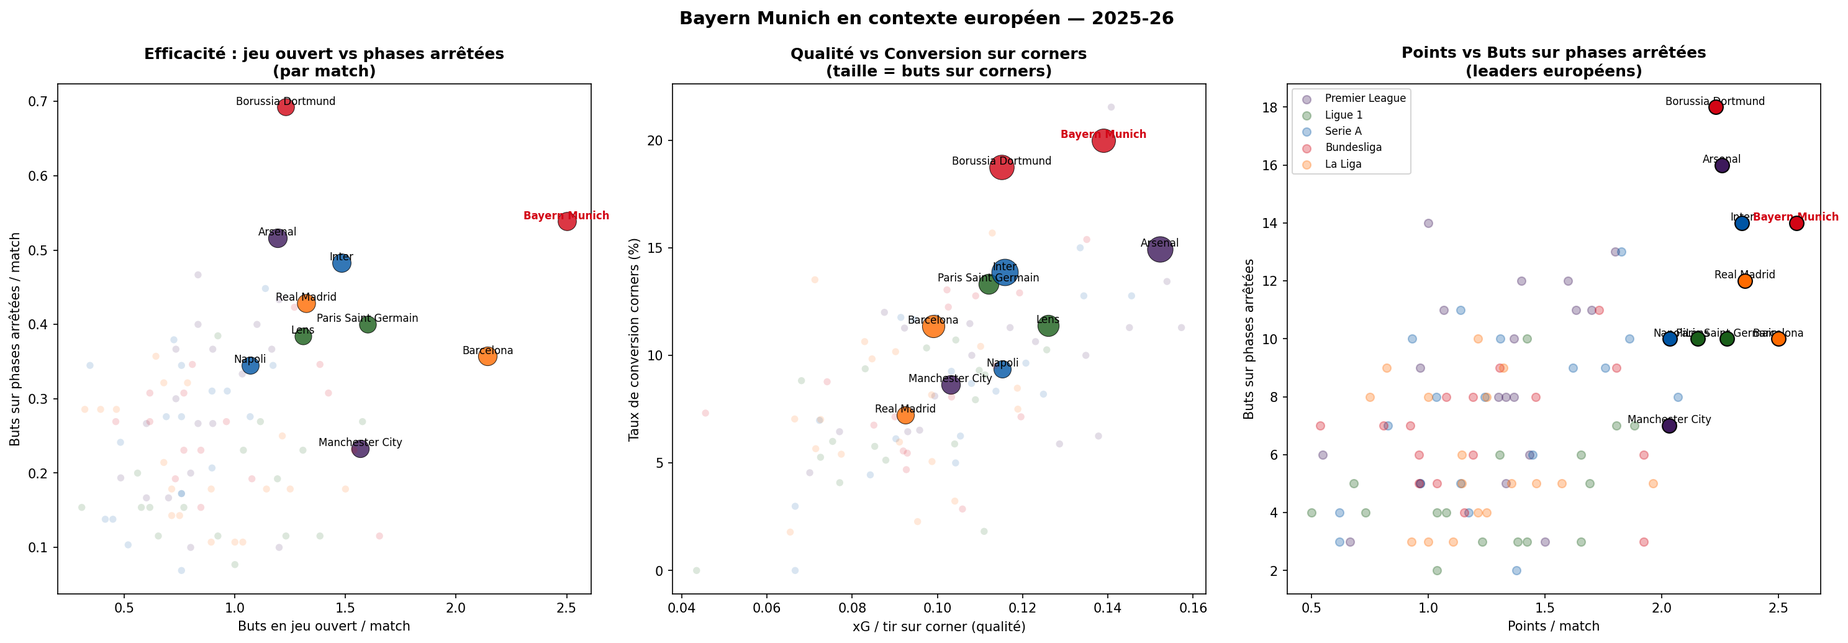
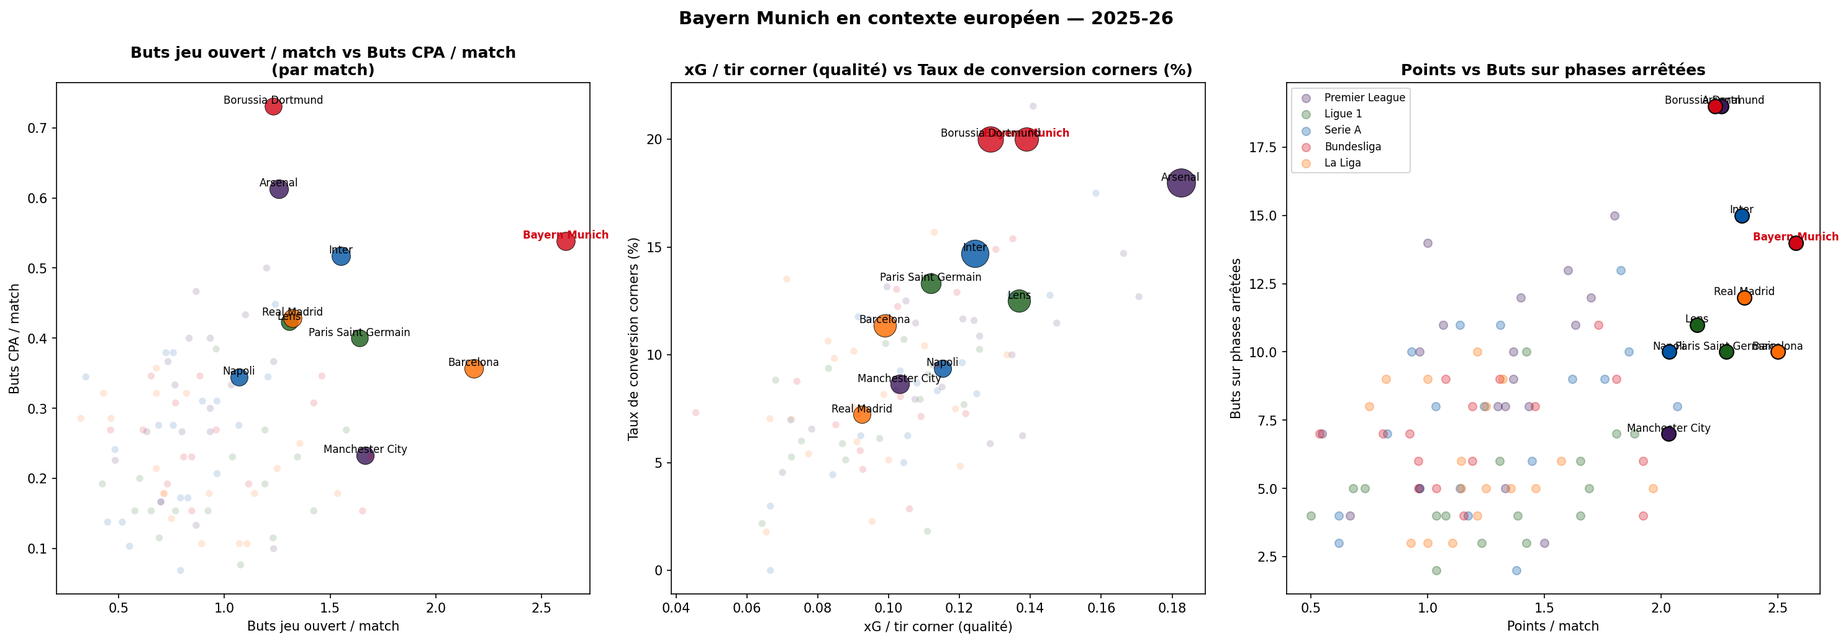
updates due to issues with Understat

diff --git a/_posts/2026-03-18-CornersSetPiecesFootballEN.md b/_posts/2026-03-18-CornersSetPiecesFootballEN.md
@@ -1,0 +1,238 @@
+---
+layout: post
+title:  "Corners, Free Kicks, and Set Pieces Across Europe's Top Leagues: What the Data Actually Says"
+date:   2026-03-18 12:00:00 +0100
+tags: [football, data analysis, corners, set pieces, Ligue 1, Premier League, Marseille, Arsenal, xG, Understat]
+hidden: true
+---
+
+Corners and set pieces are one of football's most debated topics. "Arsenal are unstoppable from corners," "Marseille are hopeless on free kicks," and so on. Opinions, gut feelings, conventional wisdom. But sometimes the data surprises: did you know that Tottenham, fighting relegation in the Premier League, are on the European podium for corner goals this season, just behind Arsenal and Inter?
+What if we actually checked?
+I analyzed **5 seasons of data** across Europe's top 5 leagues (Premier League, Ligue 1, Serie A, Bundesliga, La Liga). Every shot, every goal, every expected goal (xG) from corners, indirect free kicks, and direct free kicks. 484 team-seasons. Here's what I found in 10 key takeaways, and some results are surprising, underappreciated, or counter-intuitive.
+
+*Data: Understat via understatapi. 5 European leagues, 5 seasons (2021-2026), 484 team-seasons. Note: the 2025-26 season is ongoing (~26-30 matchdays depending on the league). Trends are clear but figures will evolve. I'll update at the end of the season.*
+
+## 1. Tottenham, kings of corners... and 16th in the Premier League
+
+This is the wildest story of the current season (~30 PL matchdays played). Tottenham are **3rd in Europe** for goals scored from corners: 14 goals, behind Arsenal (16) and Inter (15). A 21.5% conversion rate, the best in Europe.
+
+The problem? Spurs are currently **16th in the Premier League** with 30 points.
+
+<img src="/assets/en_tottenham_open_vs_corners.png" alt="Tottenham vs Arsenal: Open Play vs Corner Goals">
+
+The chart speaks for itself. Tottenham are isolated in the top left: lots of corner goals, very few from open play (25 goals, 14th in the league). Arsenal sit in the top right: 16 corner goals AND 39 from open play.
+
+**35.0% of Tottenham's goals come from set pieces.** That's the highest rate among major league clubs (excluding relegation-zone teams). When over a third of your goals depend on situations that account for ~15% of all shots, you're building on sand.
+
+For comparison, Bayern Munich, Europe's best attack, are at just 15.6% set piece dependency. Because when you score 65 open play goals, corners are a bonus, not a crutch.
+
+And then there's Arsenal, the outlier: **16 corner goals (1st in Europe)**, plus 39 from open play, 70 points (1st in the Premier League). Arsenal aren't just lethal offensively from set pieces, they dominate defensively too. In their Champions League match against Bayer Leverkusen, [Bayer 04's official account](https://x.com/bayer04_en/status/2031723079886401891) noted that Arsenal conceded zero corners. In a [controversial interview](https://talksport.com/football/4043546/john-obi-mikel-interview-arsenal-chelsea-mourinho-nigeria/), John Obi Mikel went as far as accusing Arsenal of cheating or suggesting their success depends solely on corners. Tottenham are the perfect counter-example: there's far more to football than corners.
+One could also argue Tottenham are in serious danger: without set pieces, their situation would be even worse than 16th place.
+
+---
+
+## 2. Elche 2022-23: 107 corner shots, the anatomy of desperation
+
+Beyond Tottenham in 2025-26, there are other extreme cases. Elche, 2022-23 season, La Liga. The team was relegated with 25 points, yet they fired **107 shots from corners**, a La Liga record that season.
+
+<img src="/assets/en_elche_corners_2022_23.png" alt="Corner shot distribution, La Liga 2022-23">
+
+The z-score is 2.26, a statistical outlier. But the right-hand chart is even more telling: **26.4% of all Elche's shots came from corners**. The La Liga average is 15.6%. No one else exceeds 19%.
+
+Why? Because Elche couldn't do anything else. Just 406 total shots (the lowest in La Liga), non-existent open play creation. Corners were their only route to goal. Lucas Boye, their target man, took 19 corner shots alone, shouldering the entire aerial workload.
+
+When you can't do anything else, you're left with corners. Tottenham 2025-26 is a less extreme version of the same syndrome.
+
+For the record, I haven't watched a single Elche match. But the statistics are quite clear (I also checked whether this was a data anomaly or a single misrecorded match inflating the count, but no). **I'm looking for Elche followers or supporters, because this is a truly remarkable phenomenon**, and despite some searching, I haven't found anything documenting this Elche exploit.
+
+---
+
+## 3. Marseille, from shame to (partial) renaissance on corners
+
+In November 2025, [@Rubenzf911](https://x.com/Rubenzf911/status/1985468834401116253) asked the question many Marseille supporters had on their minds:
+
+> *"OM's set pieces, is anyone ever going to sound the alarm?"*
+
+The alarm, the data had been ringing it for a while. Here's Marseille's evolution over 5 seasons:
+
+<img src="/assets/en_table_marseille_evolution.png" alt="Marseille evolution, 5 seasons">
+
+The table tells a three-act story:
+
+**Act 1, The glory (2022-23)**: 17 dead ball goals (1st in Ligue 1!), 11 from corners alone, 14.9 xG. OM were slightly overperforming (+2.1 goals vs xG). A 73-point season, their best in 5 years.
+
+**Act 2, The collapse (2023-24 and 2024-25)**: a crash to 6 then 7 dead ball goals. But note the 2023-24 xG: **13.0 xG for just 6 goals** (-7.0 underperformance). OM were creating good set piece chances, they just weren't converting them. It was bad luck as much as inefficiency. De Zerbi's first season was, from this perspective, quite a feat: despite dreadful set pieces, OM still finished 2nd.
+
+**Act 3, The recovery (2025-26)**: 7 dead ball goals, 4th in Ligue 1. Corners are improving (6 goals, 3rd in L1). One could argue the staff's work (particularly Pancho Abardonado, apparently the set piece coach) has been [unfairly criticized](https://x.com/TeamOM_Officiel/status/2029306295904272504).
+
+But a black hole remains.
+
+<img src="/assets/en_marseille_evolution_plot.png" alt="Marseille evolution: DB Goals vs xG">
+
+---
+
+## 4. Marseille's black hole: 0 goals from indirect free kicks
+
+Zero. 21 shots from indirect free kicks this season, not a single goal. An xG per shot of 0.060, the worst among Ligue 1's top 6. OM aren't even creating good chances from these situations.
+
+<img src="/assets/en_table_top10_ligue1.png" alt="Top 10 Ligue 1, Dead Ball Goals">
+
+Look at Lorient: 10th in the table, 37 points, yet **level with PSG and Lens** on dead ball goals (10 each). Lorient score 4 from indirect free kicks. Marseille: zero. Even Metz, bottom of Ligue 1 (13 points), have scored 3 non-corner dead ball goals.
+
+The comparison is harsh but raises questions.
+
+To be fair, the coaching staff have clearly improved corners (from 3 goals / 15th in L1 to 6 goals / 3rd). But indirect free kicks (long throw-ins, set plays from wide free kicks) remain an open construction site. The xG confirms it: 0.060 per shot on indirect FKs, versus 0.097 on corners. You might think one or two free kick goals would bring OM back to average. Not even: OM simply aren't creating good chances from these situations.
+
+---
+
+## 5. Bayern Munich: the best attack in Europe, period
+
+If you're looking for a model, it's Bayern. Not because they're the best from set pieces (Arsenal and Dortmund have 19 goals vs 14), but because they're the best **at everything simultaneously**.
+
+<img src="/assets/en_bayern_european_context.png" alt="Bayern in European context">
+
+| Metric | Bayern | Rank /96 |
+|--------|--------|---------|
+| Points/match | 2.58 | **1st** |
+| Goals/match | 3.46 | **1st** |
+| Open play goals | 65 | **1st** |
+| DB goals/match | 0.54 | 2nd |
+| Corner conversion | 20.0% | 2nd |
+
+They're the **only club** positioned in the top right of every scatter plot: elite in open play AND from set pieces. Arsenal are co-leaders on set pieces (19 goals, tied with Dortmund) but relatively modest in open play (1.26 goals/match). Barcelona are strong in open play but average from set pieces. Inter are good at both but a notch below. Bayern have no blind spots.
+
+And unlike Dortmund or Tottenham, this efficiency is backed by xG: 9.8 DB xG for 14 goals, an overperformance of +4.2, high but not outrageous.
+
+---
+
+## 6. Dortmund: a house of cards built on corners?
+
+Borussia Dortmund co-lead Europe in dead ball goals this season with Arsenal: **19 goals** (13 corners, 6 indirect free kicks). Impressive? Yes. Sustainable? Probably not.
+
+<img src="/assets/en_bundesliga_big3_evolution.png" alt="Bundesliga Big 3, 5-season evolution">
+
+The problem is in the xG: Dortmund have scored 19 goals from just 11.8 xG. That's an overperformance of +7.2, the second highest in our entire dataset (484 team-seasons). The only comparable season? Union Berlin 2022-23, with +10.5 overperformance on set pieces. The following year, Union Berlin collapsed.
+
+<img src="/assets/en_table_top20_all_seasons.png" alt="Top 20 dead ball seasons in Europe">
+
+But there's perhaps a warning signal and a "dependency": **34.5% of Dortmund's goals come from set pieces**. Just 32 open play goals in 26 matches, their worst in 5 seasons. Set pieces are masking an open play attack that's sputtering. 8 Bundesliga matchdays remain: the end of the season will tell whether this overperformance holds or corrects, as it has historically for other clubs.
+
+---
+
+## 7. Lens: the corner machine that broke down in November
+
+Lens are 2nd in Ligue 1 with 56 points and L1's corner leader (10 goals). But there's a before and after November.
+
+On X (formerly Twitter), [@Laurentmazure](https://x.com/Laurentmazure/status/2032907605606080960) recently complained:
+
+> *"At some point, the media and pundits covering RC Lens need to stop saying the team is 'effective' and 'dangerous' from set pieces. That was true until November. Since then, Lens have scored just 1 of their last 26 goals from set pieces!"*
+
+And [@MechTuyot](https://x.com/MechTuyot/status/2032909166894092442) added:
+
+> *"That's the thing... you score two goals in 3 matches from set pieces, and you're labeled a set piece team for the next 24 months, even if you lose your taker and your aerial threat... regardless of the league or the team."*
+
+The data proves them entirely right. Look at the curve.
+
+<img src="/assets/en_lens_timeline.png" alt="Lens, Dead Ball Timeline">
+
+The cumulative curve is brutal: **9 dead ball goals in 14 matches through November, then just 1 in 12 matches since**. The curve flatlines completely after November 22.
+
+| Period | Matches | DB Goals | Conversion | DB xG |
+|--------|---------|---------|-----------|-------|
+| Aug-Nov | 14 | **9** | 15.5% | 11.3 |
+| Dec-Mar | 12 | **1** | 1.9% | 5.7 |
+
+It's not a volume problem. Lens keep shooting (47 dead ball shots since December). Conversion dropped from 15.5% to 1.9%. The xG also halved. The quality of chances has degraded, not just the finishing. @MechTuyot's observation is relevant: was a set piece taker or an aerial threat lost? The data doesn't say who, but it confirms the when (late November) and the magnitude (total collapse).
+It will be interesting to see whether Lens recover their efficiency by the end of the season, or whether the drop-off is structural.
+
+The most ironic part: pundits continue praising Lens' set pieces in March, when they haven't worked for **four months**. Reputations outlive facts, and that's precisely why we need data.
+
+---
+
+## 8. Ligue 1, bottom of the class on set pieces
+
+This isn't just a Marseille problem or any single club's issue. It's the **entire league** that's behind.
+
+<img src="/assets/en_leagues_evolution_5seasons.png" alt="League averages, 5-season evolution">
+
+| League | DB Goals/team | DB Conv | xG/DB shot |
+|--------|-------------|---------|-----------|
+| **Premier League** | **8.9** | **9.2%** | **0.111** |
+| Bundesliga | 7.8 | 9.3% | 0.099 |
+| Serie A | 7.8 | 8.3% | 0.100 |
+| La Liga | 6.4 | 7.3% | 0.096 |
+| **Ligue 1** | **5.3** | **6.7%** | **0.093** |
+
+Ligue 1 is **last on every metric**: fewer goals, worse conversion, lower shot quality (xG/shot). And the gap is widening: in 2021-22, L1 averaged 9.8 DB goals per team, ahead of the Premier League (9.2). By 2025-26, it's 5.3 versus 8.9. The decline is spectacular.
+
+Is it a tactical issue? Corner-taking quality? Defensive quality? The physique of attackers/defenders in aerial duels? Probably a bit of everything. But the data is clear: for equal investment in set pieces, a Ligue 1 club will get significantly less return than a Premier League club.
+
+---
+
+## 9. Dead ball conversion predicts nothing for top teams
+
+This may be the most counter-intuitive finding of the entire analysis. You'd think the teams that convert best from set pieces are the ones at the top of the table. That's true... on average. But look closer, and it's far more nuanced.
+
+<img src="/assets/en_nonlinear_analysis.png" alt="Non-linear analysis">
+
+I split the 484 team-seasons into performance quartiles (by points, normalized within each league-season). Here are the correlations between dead ball conversion and points **within each tier**:
+
+| Tier | DB Conv vs Points (r) |
+|------|----------------------|
+| Bottom 25% | +0.12 |
+| 25-50% | +0.05 |
+| 50-75% | +0.12 |
+| **Top 25%** | **-0.11** |
+
+**For teams in the top 25%, dead ball conversion is slightly negatively correlated with points.** In other words, among good teams, converting more from set pieces doesn't help you climb the table. It can even signal over-dependency (hello Tottenham).
+
+The examples speak for themselves:
+- Juventus 2024-25: 2.7% DB conversion, 70 points (4th in Serie A)
+- Tottenham 2025-26: 21.5% DB conversion, 30 points (16th in PL)
+- Marseille 2024-25: 6.8% DB conversion, 65 points (2nd in Ligue 1)
+
+The rolling correlation (bottom right chart) shows the effect of DB conversion is **strongest between 30 and 50 points**, i.e. mid-table teams. For them, set pieces can make the difference between survival and relegation. But above 65 points, the effect vanishes entirely.
+
+Between groups, the gap is massive: the top 10% DB converters average **16.8 more points** than the bottom 10% (p<0.001). But within a given performance group, DB conversion explains nothing.
+
+---
+
+## 10. The Marseille paradox: what if improving set pieces changes nothing?
+
+Let's summarize OM's situation. Overall conversion of 14.2% (excellent, well above average). Dead ball conversion of 7.6% (poor). Zero goals from indirect free kicks. The diagnosis is clear: a gap in the armor.
+
+But the data also says that for a team of Marseille's caliber (top 25% in Ligue 1), **improving dead ball conversion doesn't mechanically translate to more points**. OM finished 2nd in 2024-25 with one of the worst corner records in L1's top 15. They're 3rd in 2025-26 with significantly better efficiency. The table hasn't shifted proportionally.
+
+If OM scored 3-4 more goals from indirect free kicks this season (which would simply be the Ligue 1 average), it might mean 2-3 extra points. Match scenarios could change too. But is that what closes an 8-point gap to PSG and Lens? Probably not.
+
+The real levers are open play quality, defensive solidity, and not overperforming xPoints by 5 points, which tends to correct over time.
+
+And that's exactly what Habib Beye says, [relayed by @MassiliaZone](https://x.com/MassiliaZone/status/2032092476702670859):
+
+> *"I value hard work, but situations need to open up beyond just set pieces."*
+
+Marseille's coach reads it the same way as the data. Set pieces are worth working on (and the staff probably don't do it enough). But Marseille's ceiling doesn't depend on it. Beye knows it, the xG confirms it.
+
+**OM should invest more in set pieces, especially free kicks, but the return on investment is likely to be moderate. It's not the only lever that changes Marseille's ceiling.**
+
+---
+
+## In summary
+
+Set pieces are a bonus, not an engine. Tottenham are Europe's best from corners and are fighting relegation. Marseille were among Ligue 1's worst from corners in 2024-25 and finished 2nd. Data from 484 team-seasons confirms it: for good teams, dead ball conversion predicts nothing.
+
+What sets Arsenal or Bayern apart isn't just being good from set pieces. It's being good at everything. Set pieces are merely the icing on a cake that needs to exist first. Lens have been ineffective from set pieces since November, but are a deserving and impressive 2nd.
+
+Of course, the 2025-26 sample remains fragile (26-30 matchdays), and some trends (Dortmund's overperformance, Lens' collapse, Tottenham's conversion) could correct by season's end. The four previous seasons are complete and robust. That's the whole point of cross-referencing analyses.
+
+You can talk about football with data without betraying the game. Set pieces are a perfect subject: technical enough for numbers to add value, visible enough for everyone to have an opinion. And often, data confirms the intuition of supporters and coaches. For instance, I was convinced Marseille were catastrophic on set pieces. It's a bit more subtle than I thought. Sometimes, data refines our views.
+
+**Data is a starting point, a clue, food for thought, not a final verdict. It doesn't tell everything, but sometimes pushes you to change or refine a snap judgement. With the democratization of tools and data, we can hope for football debates that are a little less instinct-driven and a little more evidence-based. And why not, more compelling.**
+
+---
+
+*Data and source code for this analysis are available on GitHub. All visualizations were generated with Python (matplotlib, soccerdata, scipy). xG data comes from Understat. Monte Carlo simulations for xPoints use 5,000 iterations per match with a Poisson distribution.*
+
+*The 2025-26 season is not over: current figures reflect ~26-30 matchdays depending on the league. The trends identified are robust, but final standings and some overperformances (Dortmund, Tottenham) may shift. I'll publish an update at the end of the season to see what held up and what corrected.*
+
+*Have an opinion, a question, or want to share this article? Want to know how I did it? Contact me at mathieu.acher@irisa.fr*

diff --git a/_posts/2026-03-18-CornersSetPiecesFootball.md b/_posts/2026-03-18-CornersSetPiecesFootball.md
@@ -6,27 +6,27 @@ tags: [football, data analysis, corners, set pieces, Ligue 1, Premier League, Ma
 hidden: true
 ---
 
-On parle souvent des corners et des coups de pied arrêtés (CPA) au café du commerce, sur les réseaux sociaux, ou dans les médias. "Arsenal est injouable sur corners", "L'OM est nul sur coups francs", etc. Des impressions, des ressentis. Et parfois des surprises : saviez-vous que Tottenham, à la lutte pour le maintien en Premier League, est le meilleur club d'Europe sur corners cette saison ? Non ? Oui ? 
+On parle souvent des corners et des coups de pied arrêtés (CPA) au café du commerce, sur les réseaux sociaux, ou dans les médias. "Arsenal est injouable sur corners", "L'OM est nul sur coups francs", etc. Des impressions, des ressentis. Et parfois des surprises : saviez-vous que Tottenham, à la lutte pour le maintien en Premier League, est sur le podium européen des buts sur corners cette saison, juste derrière Arsenal et l'Inter ? Non ? Oui ? 
 Et si on allait vérifier ?
 J'ai analysé **5 saisons de données** sur les 5 grands championnats européens (Premier League, Ligue 1, Serie A, Bundesliga, La Liga). Chaque tir, chaque but, chaque expected goal (xG) sur corner, coup franc indirect, coup franc direct. 484 équipes-saisons. Voici ce que j'ai trouvé en 10 points clés, et certains résultats me semblent surprenants, méconnus, ou contre-intuitifs.
 
-*Données : Understat via soccerdata. 5 ligues européennes, 5 saisons (2021-2026), 484 équipes-saisons, ~180 000 tirs analysés. Note : la saison 2025-26 est en cours (~26-30 journées selon les championnats). Les tendances sont claires mais les chiffres évolueront. Je mettrai à jour en fin de saison.*
+*Données : Understat via understatapi. 5 ligues européennes, 5 saisons (2021-2026), 484 équipes-saisons. Note : la saison 2025-26 est en cours (~26-30 journées selon les championnats). Les tendances sont claires mais les chiffres évolueront. Je mettrai à jour en fin de saison.*
 
 ## 1. Tottenham, roi des corners... et 16e de Premier League
 
-C'est l'histoire la plus folle de cette saison (en cours, ~30 journées de PL jouées). Tottenham est **co-leader européen** sur les buts marqués sur corners : 14 buts, à égalité avec l'Inter Milan. Conversion de 21.5%, la meilleure d'Europe.
+C'est l'histoire la plus folle de cette saison (en cours, ~30 journées de PL jouées). Tottenham est **3e européen** sur les buts marqués sur corners : 14 buts, derrière Arsenal (16) et l'Inter (15). Conversion de 21.5%, la meilleure d'Europe.
 
 Le problème ? Les Spurs sont actuellement **16es de Premier League** avec 30 points.
 
 <img src="/assets/fr_tottenham_open_vs_corners.png" alt="Tottenham vs Arsenal, Jeu ouvert vs Corners">
 
-Le graphique est sans appel. Tottenham est isolé en haut à gauche : beaucoup de buts sur corners, très peu en jeu ouvert (25 buts, 14e du championnat). Arsenal, lui, est en haut à droite : 13 buts sur corners ET 37 en jeu ouvert.
+Le graphique est sans appel. Tottenham est isolé en haut à gauche : beaucoup de buts sur corners, très peu en jeu ouvert (25 buts, 14e du championnat). Arsenal, lui, est en haut à droite : 16 buts sur corners ET 39 en jeu ouvert.
 
-**35.9% des buts de Tottenham viennent de phases arrêtées.** C'est le taux le plus élevé d'Europe, tous championnats confondus. Quand plus d'un tiers de tes buts dépendent de situations de jeu qui représentent ~15% des tirs, tu construis sur du sable.
+**35.0% des buts de Tottenham viennent de phases arrêtées.** C'est le taux le plus élevé parmi les clubs des grands championnats (hors relégables). Quand plus d'un tiers de tes buts dépendent de situations de jeu qui représentent ~15% des tirs, tu construis sur du sable.
 
 À titre de comparaison, le Bayern Munich, meilleure attaque d'Europe, n'est qu'à 15.6% de dépendance aux CPA. Parce que quand tu marques 65 buts en jeu ouvert, les corners sont un bonus, pas une béquille.
 
-Et puis il y a Arsenal, l'ovni : 13 buts sur corners (2e en Europe), mais également 37 en jeu ouvert, 70 points (1er de Premier League). Arsenal ne se contente pas d'être redoutable offensivement sur CPA, ils le sont aussi dans le jeu. Lors du match de Ligue des Champions contre le Bayer Leverkusen, [le compte officiel du Bayer 04](https://x.com/bayer04_en/status/2031723079886401891) a veinement interdit à Arsenal d'obtenir des corners. Des voies s'élèvent même en Premier League. 
+Et puis il y a Arsenal, l'ovni : **16 buts sur corners (1er en Europe)**, mais également 39 en jeu ouvert, 70 points (1er de Premier League). Arsenal ne se contente pas d'être redoutable offensivement sur CPA, ils le sont aussi dans le jeu. Lors du match de Ligue des Champions contre le Bayer Leverkusen, [le compte officiel du Bayer 04](https://x.com/bayer04_en/status/2031723079886401891) a veinement interdit à Arsenal d'obtenir des corners. Des voies s'élèvent même en Premier League. 
 Dans une interview explosive, John Obi Mikel a carrément accusé Arsenal de tricher ou que le succès d'Arsenal dépend uniquement des corners: https://talksport.com/football/4043546/john-obi-mikel-interview-arsenal-chelsea-mourinho-nigeria/. 
 Tottenham est un parfait contre-exemple : il n'y a pas que les corners... 
 Et on peut aussi penser que Tottenham est en grand danger, car sans les CPA la situation serait encore plus compliquée que la 16ème place. 
@@ -91,7 +91,7 @@ Il suffirait d'un ou deux buts sur coup franc pour remettre l'OM à niveau me di
 
 ## 5. Bayern Munich : la meilleure attaque d'Europe, point final
 
-Si vous cherchez un modèle, c'est le Bayern. Pas parce qu'ils sont les meilleurs sur CPA (Dortmund a 18 buts contre 14), mais parce qu'ils sont les meilleurs **partout en même temps**.
+Si vous cherchez un modèle, c'est le Bayern. Pas parce qu'ils sont les meilleurs sur CPA (Arsenal et Dortmund font 19 buts CPA contre 14), mais parce qu'ils sont les meilleurs **partout en même temps**.
 
 <img src="/assets/fr_bayern_contexte_europeen.png" alt="Bayern en contexte européen">
 
@@ -103,7 +103,7 @@ Si vous cherchez un modèle, c'est le Bayern. Pas parce qu'ils sont les meilleur
 | Buts CPA/match | 0.54 | 2e |
 | Conversion corners | 20.0% | 2e |
 
-C'est le **seul club** situé en haut à droite de tous les nuages de points : élite en jeu ouvert ET en phases arrêtées. Arsenal est excellent sur CPA mais relativement modeste en jeu ouvert (1.19 but/match). Barcelone est fort en jeu ouvert mais moyen sur CPA. Inter est bon partout mais à un cran en dessous. Le Bayern n'a aucun angle mort.
+C'est le **seul club** situé en haut à droite de tous les nuages de points : élite en jeu ouvert ET en phases arrêtées. Arsenal est co-leader sur CPA (19 buts, à égalité avec Dortmund) mais relativement modeste en jeu ouvert (1.26 but/match). Barcelone est fort en jeu ouvert mais moyen sur CPA. Inter est bon partout mais à un cran en dessous. Le Bayern n'a aucun angle mort.
 
 Et contrairement à Dortmund ou Tottenham, cette efficacité est soutenue par les xG : 9.8 xG CPA pour 14 buts, une surperformance de +4.2, élevée mais pas délirante.
 
@@ -111,21 +111,21 @@ Et contrairement à Dortmund ou Tottenham, cette efficacité est soutenue par le
 
 ## 6. Dortmund : un château de cartes construit sur corners?
 
-Borussia Dortmund est le leader européen des buts sur phases arrêtées cette saison : 18 buts (12 corners, 6 coups francs indirects). Impressionnant ? Oui. Durable ? Probablement pas.
+Borussia Dortmund est co-leader européen des buts sur phases arrêtées cette saison avec Arsenal : **19 buts** (13 corners, 6 coups francs indirects). Impressionnant ? Oui. Durable ? Probablement pas.
 
 <img src="/assets/fr_bundesliga_big3_evolution.png" alt="Bundesliga Big 3, Évolution 5 saisons">
 
-Le problème est dans les xG : Dortmund a marqué 18 buts pour seulement 10.8 xG. C'est une surperformance de +7.2, la deuxième plus élevée de tout notre dataset (484 équipes-saisons). La seule saison comparable ? Union Berlin 2022-23, avec +10.5 de surperformance sur CPA. L'année suivante, Union Berlin s'est écroulé.
+Le problème est dans les xG : Dortmund a marqué 19 buts pour seulement 11.8 xG. C'est une surperformance de +7.2, la deuxième plus élevée de tout notre dataset (484 équipes-saisons). La seule saison comparable ? Union Berlin 2022-23, avec +10.5 de surperformance sur CPA. L'année suivante, Union Berlin s'est écroulé.
 
 <img src="/assets/fr_table_top20_all_seasons.png" alt="Top 20 meilleures saisons CPA en Europe">
 
-Mais il y a peut-être un signal d'alarme et une "dépendance" : **33.3% des buts de Dortmund viennent de CPA**. Seulement 32 buts en jeu ouvert en 26 matchs, le pire de leur 5 dernières saisons. Les phases arrêtées masquent une attaque en jeu ouvert qui tourne au ralenti. Il reste 8 journées en Bundesliga : la fin de saison dira si cette surperformance tient ou si elle se corrige, comme elle l'a fait historiquement pour d'autres clubs.
+Mais il y a peut-être un signal d'alarme et une "dépendance" : **34.5% des buts de Dortmund viennent de CPA**. Seulement 32 buts en jeu ouvert en 26 matchs, le pire de leur 5 dernières saisons. Les phases arrêtées masquent une attaque en jeu ouvert qui tourne au ralenti. Il reste 8 journées en Bundesliga : la fin de saison dira si cette surperformance tient ou si elle se corrige, comme elle l'a fait historiquement pour d'autres clubs.
 
 ---
 
 ## 7. Lens : la machine à corners qui s'est enrayée en novembre
 
-Lens est 2e de Ligue 1 avec 56 points et leader sur les corners en L1 (9 buts). Mais il y a un avant et un après novembre.
+Lens est 2e de Ligue 1 avec 56 points et leader sur les corners en L1 (10 buts). Mais il y a un avant et un après novembre.
 
 Sur X (ex-Twitter), [@Laurentmazure](https://x.com/Laurentmazure/status/2032907605606080960) s'agaçait récemment :
 
